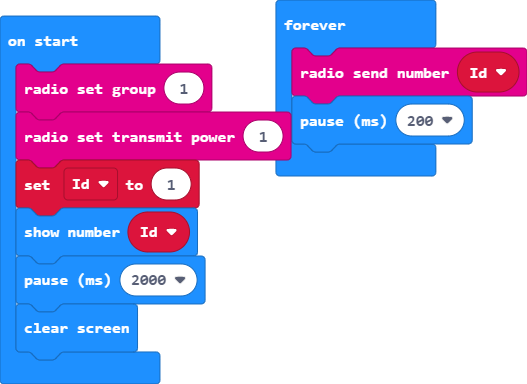
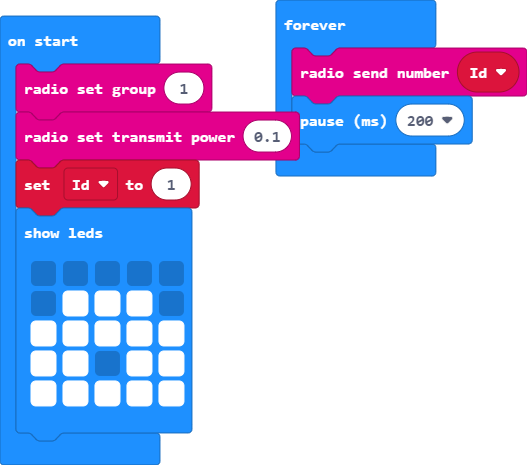
Update pxt.json, main.blocks, main.ts

diff --git a/main.ts b/main.ts
@@ -1,9 +1,13 @@
 radio.setGroup(1)
-radio.setTransmitPower(1)
+radio.setTransmitPower(0.1)
 let Id = 1
-basic.showNumber(Id)
-basic.pause(2000)
-basic.clearScreen()
+basic.showLeds(`
+    . . . . .
+    . # # # .
+    # # # # #
+    # # . # #
+    # # # # #
+    `)
 basic.forever(function () {
     radio.sendNumber(Id)
     basic.pause(200)
